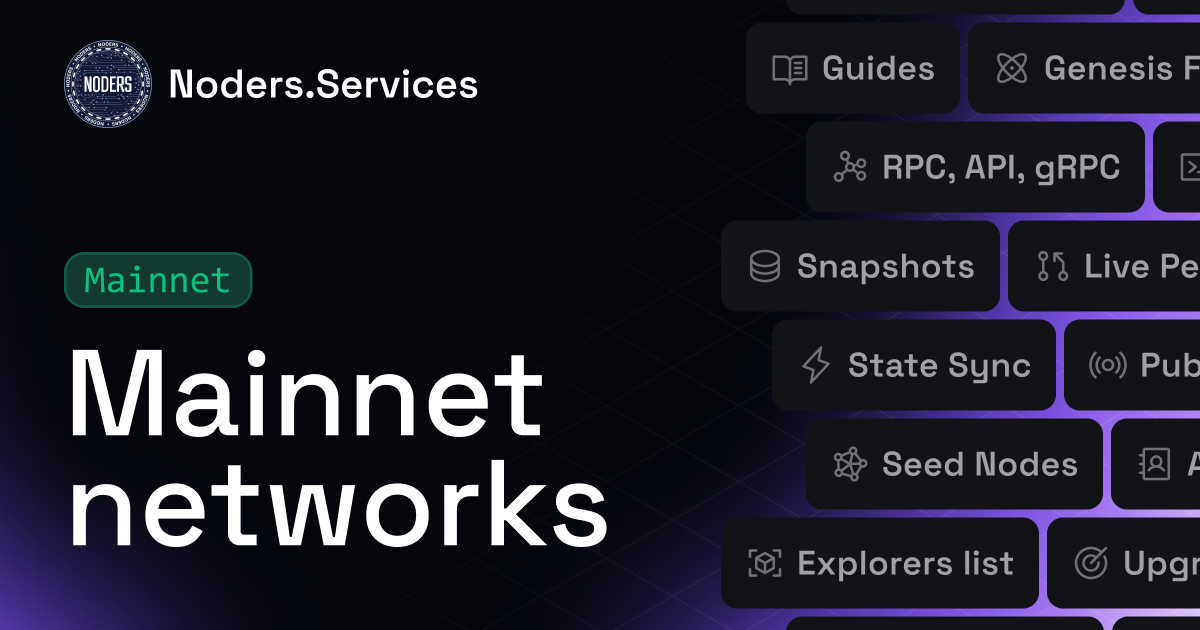
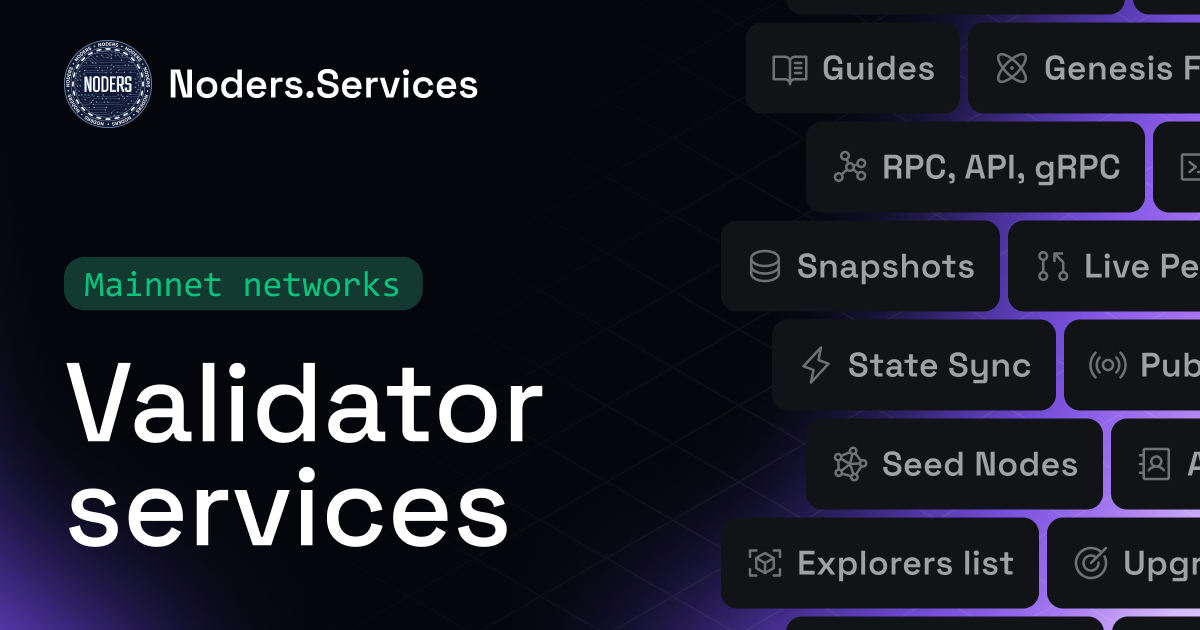
add open graph preview for home page, update title, update preview for overview pages

Changed region(s): [[0.0308, 0.5429, 0.4625, 0.7238], [0.0617, 0.7238, 0.5242, 0.8746], [0.0617, 0.3921, 0.37, 0.5127]]

diff --git a/src/pages/index.tsx b/src/pages/index.tsx
@@ -3,31 +3,37 @@ import useDocusaurusContext from '@docusaurus/useDocusaurusContext';
 import Layout from '@theme/Layout';
 import Head from '@docusaurus/Head';
 import Home from './Home';
-import Footer from "@/components/Footer";
+import Footer from '@/components/Footer';
 
 export default function RootPage(): React.JSX.Element {
-    const {siteConfig} = useDocusaurusContext();
-    return (
-        <Layout
-            title={`${siteConfig.title}`}
-            description="Professional blockchain validator and web3 developer team">
-            <Head>
-                <script async src="https://www.googletagmanager.com/gtag/js?id=G-4PD80V2K10"></script>
-                <script>
-                    {`
-                        window.dataLayer = window.dataLayer || [];
-                        function gtag(){dataLayer.push(arguments);}
-                        gtag('js', new Date());
-                        gtag('config', 'G-4PD80V2K10');
-                    `}
-              </script>
-            </Head>
-            <div style={{
-                backgroundImage: 'url(img/home-page/dot-pattern.svg)',
-            }}>
-              <Home />
-              <Footer />
-            </div>
-        </Layout>
-    );
+  const { siteConfig } = useDocusaurusContext();
+  return (
+    <Layout title={`${siteConfig.title}`} description="Professional blockchain validator and web3 developer team">
+      <Head>
+        <meta property="og:title" content={siteConfig.title} />
+        <meta property="og:description" content="Professional blockchain validator and web3 developer team" />
+        <meta property="og:type" content="website" />
+        <meta property="og:image" content="https://noders.services/img/open-graph/home.png" />
+        <meta property="og:url" content="https://noders.services" />
+        <meta name="twitter:card" content="summary_large_image" />
+        <script async src="https://www.googletagmanager.com/gtag/js?id=G-4PD80V2K10"></script>
+        <script>
+          {`
+            window.dataLayer = window.dataLayer || [];
+            function gtag(){dataLayer.push(arguments);}
+            gtag('js', new Date());
+            gtag('config', 'G-4PD80V2K10');
+          `}
+        </script>
+      </Head>
+      <div
+        style={{
+          backgroundImage: 'url(img/home-page/dot-pattern.svg)',
+        }}
+      >
+        <Home />
+        <Footer />
+      </div>
+    </Layout>
+  );
 }

diff --git a/docusaurus.config.js b/docusaurus.config.js
@@ -7,7 +7,7 @@ const path = require('path');
 
 /** @type {import('@docusaurus/types').Config} */
 const config = {
-  title: 'VALIDATOR SERVICES | NODERS',
+  title: 'Validator Services | NODERS',
   tagline: 'Trusted blockchain validator and web3 developer team',
   favicon: 'img/favicon.svg',
 
@@ -129,8 +129,8 @@ const config = {
       {
         path: './preview-images',
         imageRenderers: {
-          'docusaurus-plugin-content-pages': require('./lib/open-graph/ImageRenderers').pages,
-          'docusaurus-plugin-content-docs': require('./lib/open-graph/ImageRenderers').docs,
+          'docusaurus-plugin-content-pages': require('./lib/open-graph/ImageRenderers').default.pages,
+          'docusaurus-plugin-content-docs': require('./lib/open-graph/ImageRenderers').default.docs,
         },
       },
     ],
